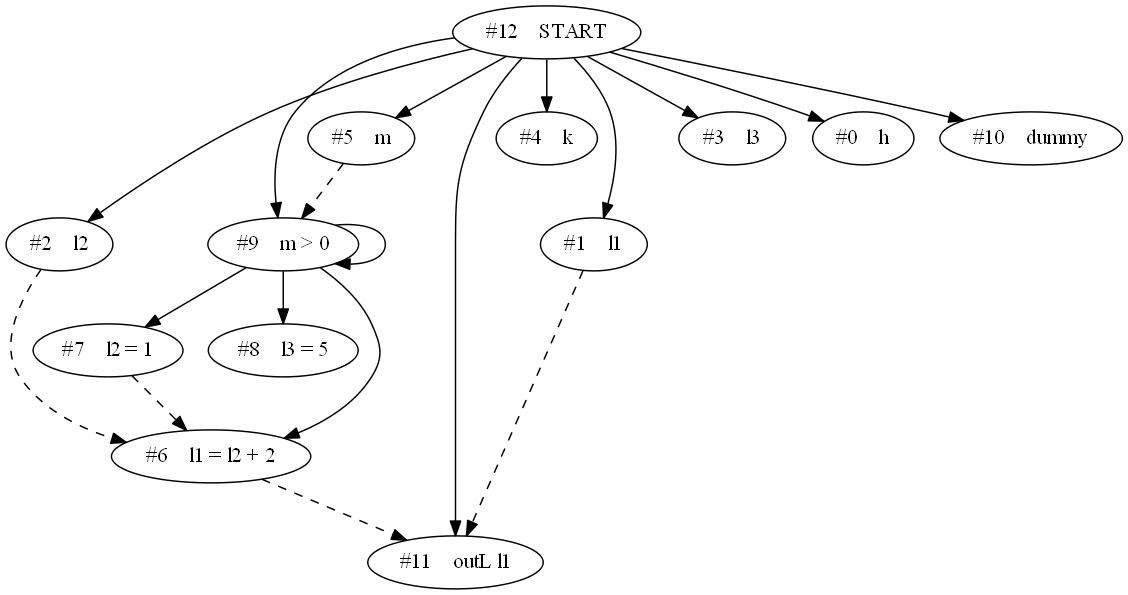
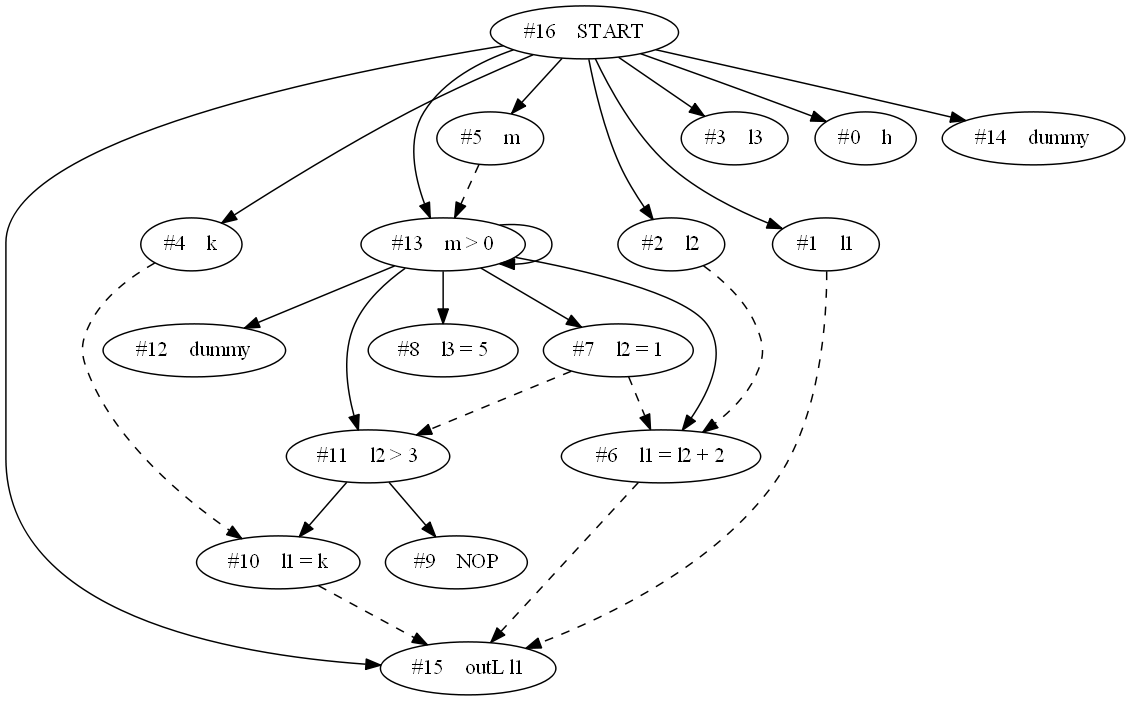
execution condition اصلاح شد
execution condition در while و بعدش else مشکل داشت
از پیمایش DFS، به BFS تبدیل کردیم
حالا path condition هم درست است
آماده است تا for  آخر شبه کد پیاده شود

diff --git a/Project/WLRewriter/src/wlrewriter/PINIRewriter.java b/Project/WLRewriter/src/wlrewriter/PINIRewriter.java
@@ -149,21 +149,25 @@ public class PINIRewriter {
                 }
 
                 executionConditions.put(path, executionConditionsForThisPath);
-//                System.out.println(executionConditionsForThisPath);
+                System.out.println(executionConditionsForThisPath);
 
-                
-                
-                
                 String pathCond = "";
                 for (int j = 0; j < executionConditionsForThisPath.size(); j++) {
                     String str = executionConditionsForThisPath.get(j);
+//                    if (str.contains(" : TRUE) ")) {
+//                        str = str.replace(" : TRUE) ", ") ");
+//                    }
+//                    if (str.contains(": FALSE) ")) {
+//                        str = str.replace(" : FALSE) ", ") ");
+//                        str = str.replace(" (", " !(");
+//                    }
                     pathCond += str;
                     if (j < executionConditionsForThisPath.size() - 1) {
                         pathCond += " and ";
                     }
-               
+//               
                 }
-                
+
                 pathConditions.put(path, pathCond);
                 System.out.println(pathCond);
 
@@ -237,55 +241,50 @@ public class PINIRewriter {
             boolean found = false;
             for (Node n : pdg.getNodeSet()) {
                 n.isVisited = false;
+                n.isComeFromTrue = null;
             }
-            if (parent.getNextPointer1() != null) {
 
+            MyQueue queue = new MyQueue();
+            if (parent.getNextPointer1() != null) {
                 Node temp = parent.getNextPointer1(); //agar sharte bargharar Bood
-                HashSet<Node> worklist = new HashSet<>();
-                worklist.add(temp);
-                while (!found && !temp.getStatement().equals("STOP") && !worklist.isEmpty()) {
-                    temp = worklist.iterator().next();
-                    temp.isVisited = true;
-                    if (temp.getNodeID() == node.getNodeID()) {
-                        found = true;
-                    }
-                    else {
-                        worklist.remove(temp);
-                        for (Node l : temp.succ()) {
-                            if (!l.isVisited) {
-                                worklist.add(l);
-                            }
-                        }
-                    }
-                }
-                if (found) {
-                    executionCondition += " (" + parent.getStatement() + ") and";
-                }
+                temp.isComeFromTrue = true;
+                queue.add(temp);
+
             }
-            if (!found && parent.getNextPointer2() != null) {
+            if (parent.getNextPointer2() != null) {
 
                 Node temp = parent.getNextPointer2(); //agar sharte bargharar Nabood
-                HashSet<Node> worklist = new HashSet<>();
-                worklist.add(temp);
-                while (!found && !temp.getStatement().equals("STOP") && !worklist.isEmpty()) {
-                    temp = worklist.iterator().next();
-                    temp.isVisited = true;
-                    if (temp.getNodeID() == node.getNodeID()) {
-                        found = true;
+                temp.isComeFromTrue = false;
+                queue.add(temp);
+            }
+
+            while (!queue.isEmpty() && !found) {
+                Node nodeTemp = queue.peek();
+                nodeTemp.isVisited = true;
+                if (nodeTemp.getNodeID() == node.getNodeID()) {
+                    found = true;
+                    if (nodeTemp.isComeFromTrue) {
+                        executionCondition += " (" + parent.getStatement() + ") and";
                     }
                     else {
-                        worklist.remove(temp);
-                        for (Node l : temp.succ()) {
-                            if (!l.isVisited) {
-                                worklist.add(l);
+                        executionCondition += " !(" + parent.getStatement() + ") and";
+                    }
+                }
+                else {
+                    for (Node r : nodeTemp.succ()) {
+                        if (!r.isVisited) {
+                            if (nodeTemp.isComeFromTrue) {
+                                r.isComeFromTrue = true;
                             }
+                            else {
+                                r.isComeFromTrue = false;
+                            }
+                            queue.add(r);
                         }
                     }
                 }
-                if (found) {
-                    executionCondition += " !(" + parent.getStatement() + ") and";
-                }
             }
+
             Node maybeParent = null;
             for (Node beta : parent.getParentOfControlDep()) {
                 if (beta.getNodeID() != parent.getNodeID()) {

diff --git a/Project/WLRewriter/src/wlrewriter/MyQueue.java b/Project/WLRewriter/src/wlrewriter/MyQueue.java
@@ -1,0 +1,126 @@
+/*
+ * To change this license header, choose License Headers in Project Properties.
+ * To change this template file, choose Tools | Templates
+ * and open the template in the editor.
+ */
+
+package wlrewriter;
+
+import java.util.ArrayList;
+import java.util.Collection;
+import java.util.Iterator;
+import java.util.Queue;
+
+/**
+ *
+ * @author Mohammad
+ */
+public class MyQueue implements Queue<Node>{
+
+    private ArrayList<Node> queue;
+    
+    public MyQueue() {
+        queue = new ArrayList<>();
+        
+        
+    }
+
+    @Override
+    public boolean add(Node e) {
+        queue.add(e);
+        queue.trimToSize();
+        return true;
+    }
+
+    @Override
+    public boolean offer(Node e) {
+        throw new UnsupportedOperationException("Not supported yet."); //To change body of generated methods, choose Tools | Templates.
+    }
+
+    @Override
+    public Node remove() {
+        throw new UnsupportedOperationException("Not supported yet."); //To change body of generated methods, choose Tools | Templates.
+    }
+
+    @Override
+    public Node poll() {
+        throw new UnsupportedOperationException("Not supported yet."); //To change body of generated methods, choose Tools | Templates.
+    }
+
+    @Override
+    public Node element() {
+        throw new UnsupportedOperationException("Not supported yet."); //To change body of generated methods, choose Tools | Templates.
+    }
+
+    @Override
+    public Node peek() {
+     return queue.remove(0);
+        
+    }
+
+    @Override
+    public int size() {
+        return queue.size();
+    }
+
+    @Override
+    public boolean isEmpty() {
+        if(queue.size()<=0){
+            return true;
+        }
+        return false;
+    }
+
+    @Override
+    public boolean contains(Object o) {
+        throw new UnsupportedOperationException("Not supported yet."); //To change body of generated methods, choose Tools | Templates.
+    }
+
+    @Override
+    public Iterator<Node> iterator() {
+        throw new UnsupportedOperationException("Not supported yet."); //To change body of generated methods, choose Tools | Templates.
+    }
+
+    @Override
+    public Object[] toArray() {
+        throw new UnsupportedOperationException("Not supported yet."); //To change body of generated methods, choose Tools | Templates.
+    }
+
+    @Override
+    public <T> T[] toArray(T[] arg0) {
+        throw new UnsupportedOperationException("Not supported yet."); //To change body of generated methods, choose Tools | Templates.
+    }
+
+    @Override
+    public boolean remove(Object o) {
+        throw new UnsupportedOperationException("Not supported yet."); //To change body of generated methods, choose Tools | Templates.
+    }
+
+    @Override
+    public boolean containsAll(Collection<?> c) {
+        throw new UnsupportedOperationException("Not supported yet."); //To change body of generated methods, choose Tools | Templates.
+    }
+
+    @Override
+    public boolean addAll(Collection<? extends Node> c) {
+        throw new UnsupportedOperationException("Not supported yet."); //To change body of generated methods, choose Tools | Templates.
+    }
+
+    @Override
+    public boolean removeAll(Collection<?> c) {
+        throw new UnsupportedOperationException("Not supported yet."); //To change body of generated methods, choose Tools | Templates.
+    }
+
+    @Override
+    public boolean retainAll(Collection<?> c) {
+        throw new UnsupportedOperationException("Not supported yet."); //To change body of generated methods, choose Tools | Templates.
+    }
+
+    @Override
+    public void clear() {
+        throw new UnsupportedOperationException("Not supported yet."); //To change body of generated methods, choose Tools | Templates.
+    }
+
+    
+    
+}

diff --git a/Project/WLRewriter/src/wlrewriter/Node.java b/Project/WLRewriter/src/wlrewriter/Node.java
@@ -25,6 +25,8 @@ public class Node {
     private HashSet<Node> PDF, ContolDep; //PDF is related to Control Dependeces, ControlDep is Control Dependeces for the node
     
     
+    public Boolean isComeFromTrue;
+    
     /********************************/
     private HashSet<Variable> variablesOfNode;//All variables except assigned variable.
     /********************************/
